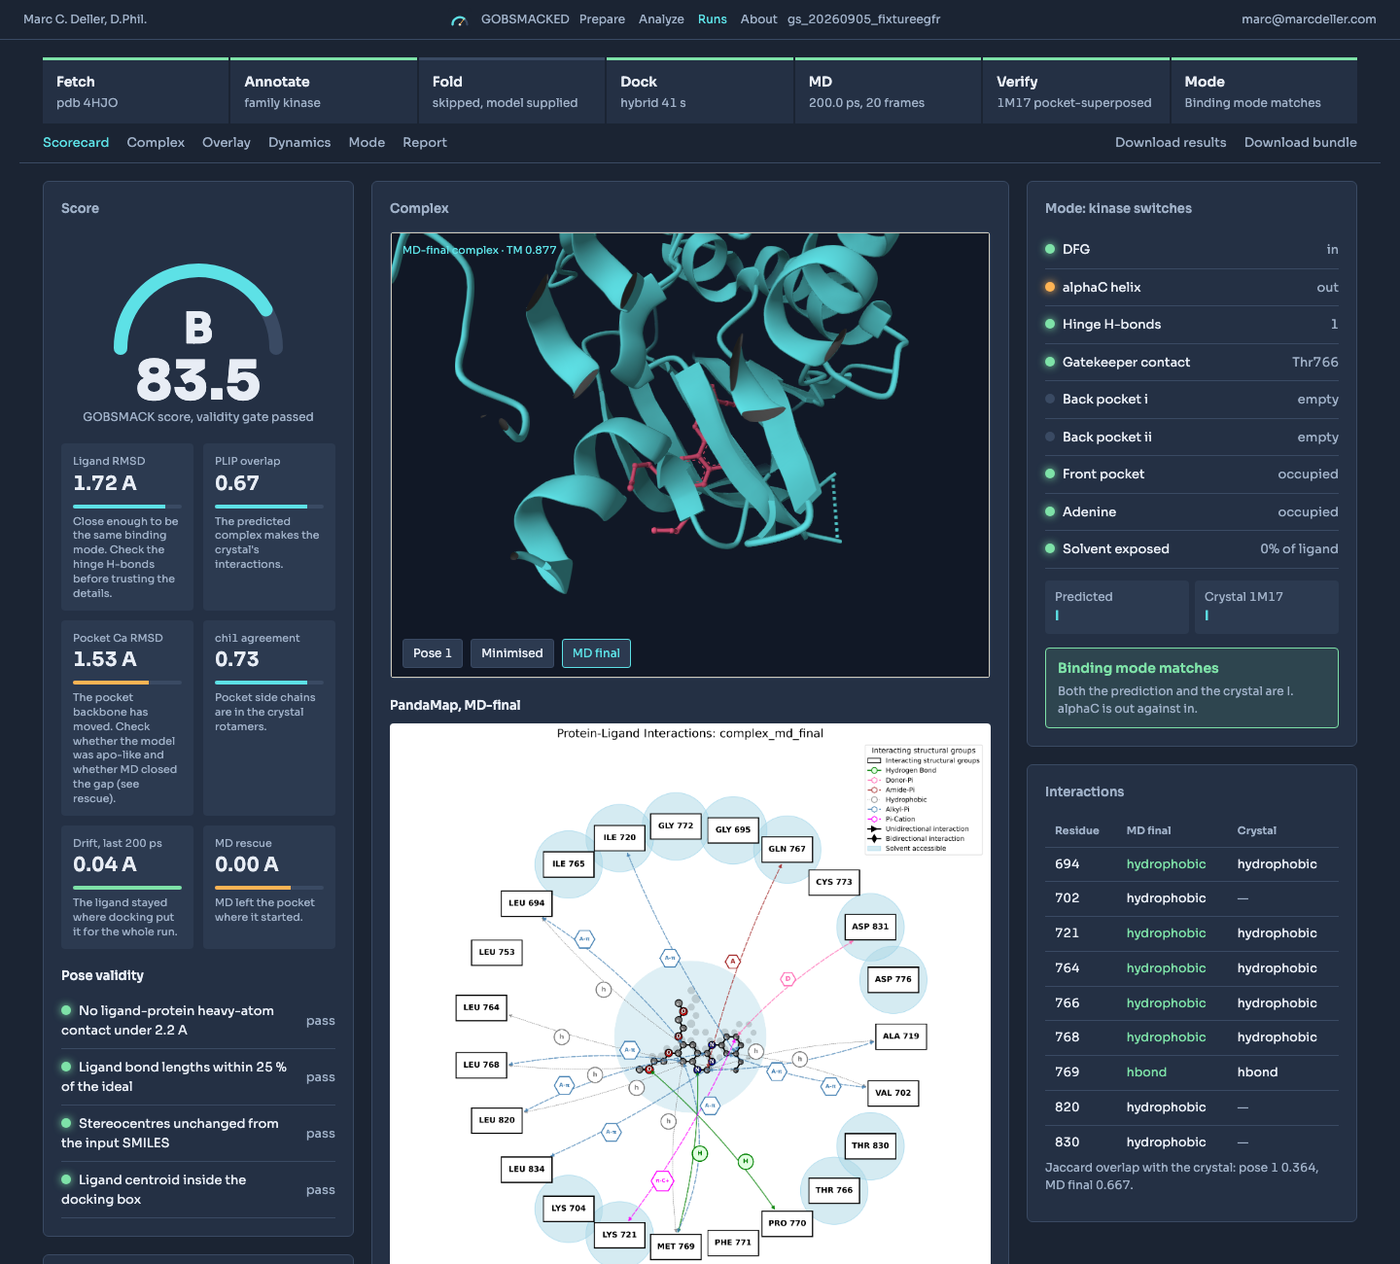
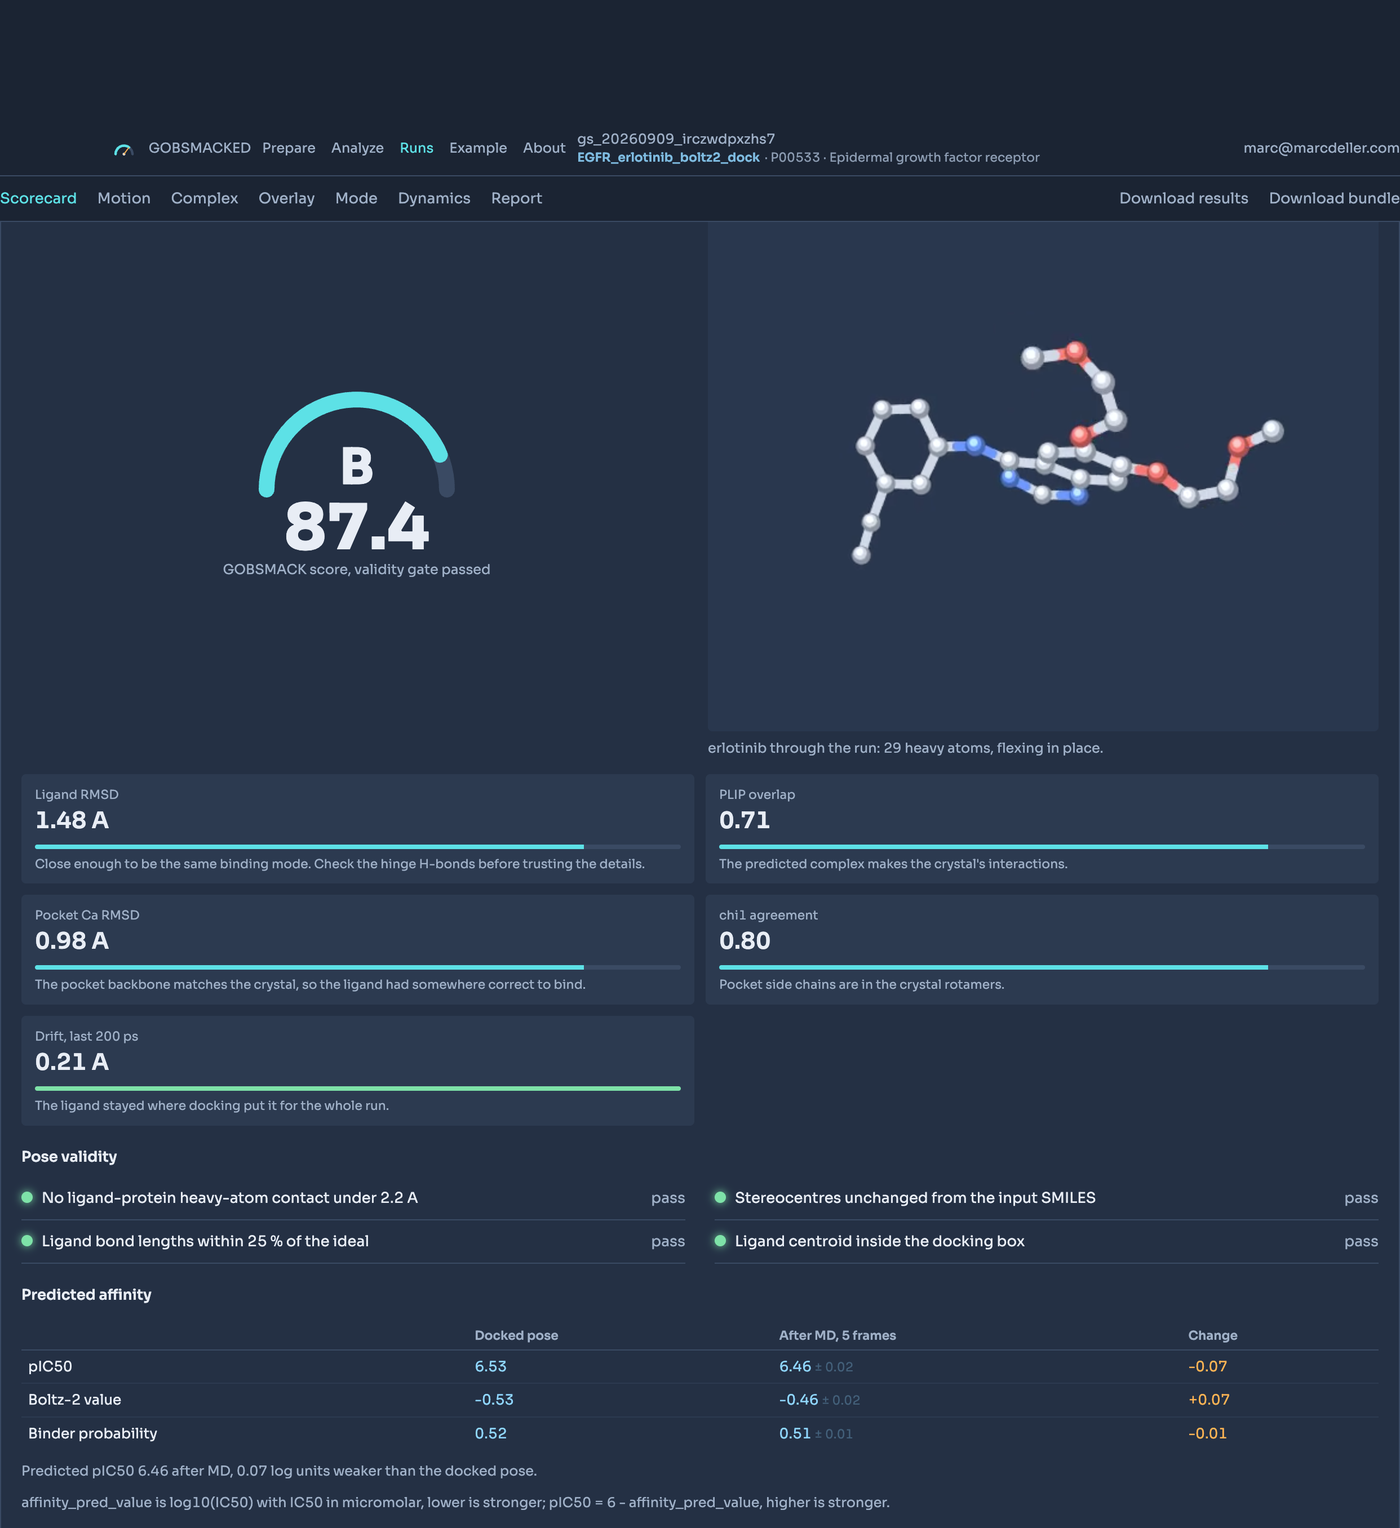
Refresh the screenshots and point the README at the current app
Every screenshot was captured before co-folding, the Vinardo ranker and the
Example tab existed, so the README was showing an app that no longer matches the
one described beside it.

Recaptured from the live site against the B 87.4 co-folded run: the scorecard
with its five gauges and the validity gate passing, the overlay, the Prepare tab
with its co-fold checkbox, the About schematic with seven run stages, and the new
Example tab. Real-time capture rather than --virtual-time-budget, which pauses
requestAnimationFrame and renders Mol* as an empty canvas that looks like a
broken viewer.

Checked for uniformity before committing, on the centre of each image as well as
the whole: a failed render is a plausible-looking rectangle of one colour at
exactly the right dimensions, and it would be believed. Downscaled from 2x to
1400 px wide.

real-run.png is deleted. Its section went when the worked example was replaced,
so it was an orphan of a run that predates the current pipeline.

Alt text rewritten to describe what each image now shows rather than what the
old one did.

Claude-Session: https://claude.ai/code/session_01L11zWULharkfydCNon2G9D

diff --git a/README.md b/README.md
@@ -14,7 +14,7 @@
 
 ---
 
-![The scorecard for EGFR plus erlotinib judged against crystal structure 1M17: a grade B dial at 83.5, six graded gauges each with a sentence explaining what to do about it, the relaxed complex in Mol*, PandaMap's 2D interaction diagram, and the kinase switch list reporting DFG-in, alphaC-out and a Type I binding mode matching the crystal](docs/screenshots/scorecard.png)
+![The GOBSMACK scorecard for the co-folded EGFR run: a grade B dial at 87.4, five graded gauges each with a sentence saying what the number means, and the relaxed complex beside it](docs/screenshots/scorecard.png)
 
 ## What this is asking
 
@@ -81,7 +81,7 @@ the scorecard says so rather than reporting a confident wrong answer.
 
 The heavy compute does not run on the server. ESMFold, the PandaDock GNN and OpenMM need a GPU and several gigabytes; the host is a shared CPU droplet with 3.8 GB. So the work is split in two, with an archive passing between them.
 
-![The pipeline: Prepare on the droplet fetches, annotates, picks the pocket and the reference, and emits run_bundle.tar.gz; Run on your GPU folds, preps, docks, runs MD and summarises into results.tar.gz; Analyze on the droplet superposes, runs the interaction analysis, grades, classifies the binding mode and draws the dynamics](docs/screenshots/pipeline.png)
+![The pipeline schematic from the About tab: Prepare on the server fetches, annotates, picks the pocket and the reference; the run bundle folds or co-folds, preps, docks, re-ranks, runs MD, scores affinity and summarises; Analyze superposes on the crystal and grades](docs/screenshots/pipeline.png)
 
 | Stage | Where | What happens |
 |---|---|---|
@@ -131,7 +131,7 @@ Four panels, each unlocking the next.
 | **3. Ligand and pocket** | SMILES, plus residues clicked in Mol* or on the sequence track | RDKit validates and draws the ligand; the docking box is the selection's extent plus 8 Å, floored at 18 Å per side |
 | **4. Reference** | (automatic, or a typed PDB ID) | RCSB entries mapped to the accession, ranked by Morgan Tanimoto against your ligand, with resolution and a 2D depiction |
 
-![The Prepare tab: the four input panels on the left and right, an empty Mol* scope in the centre waiting for a structure, and the seven-cell stage strip across the top showing what the bundle will run](docs/screenshots/prepare.png)
+![The Prepare tab: the protein panel with the co-fold checkbox, annotation, the ligand and pocket picker, and the reference panel, with the stage strip across the top](docs/screenshots/prepare.png)
 
 **Trim to the domain.** An AlphaFold model is of the whole precursor. EGFR's is 1,210 residues, of which the kinase domain is 253: solvating the other 957 costs an order of magnitude in MD time, adds two disordered tails that wander through the box, and tells you nothing about the pocket.
 
@@ -209,7 +209,7 @@ Every gauge carries one plain sentence saying what the number means and what to 
 
 Model in grey, MD-final in phosphor, the crystal in amber, all superposed on the pocket, with the ten most displaced side chains and their χ1 angles listed underneath.
 
-![The three-way overlay for the beta-2 adrenergic receptor: the relaxed complex in cyan and crystal structure 2RH1 in amber, superposed on 53 pocket Ca atoms at TM 0.999, with carazolol drawn in pink, above a table of the most displaced pocket side chains with their chi1 angles in the model and in the crystal](docs/screenshots/overlay.png)
+![The overlay panel: the relaxed complex in phosphor cyan and crystal structure 1M17 in amber, superposed on the pocket, with erlotinib drawn in both positions](docs/screenshots/overlay.png)
 
 ### 🧲 Affinity, before and after MD
 
@@ -301,6 +301,8 @@ software.yaml            the single source of truth for attribution
 ```
 
 ## 🔬 A worked example: EGFR and erlotinib, six ways
+
+![The Example tab: the six runs in one table with their grades and distances from the crystal, above four plain-language findings about what the campaign showed](docs/screenshots/example.png)
 
 One campaign run six times on an M1 Max, changing two things and holding everything else:
 where the receptor comes from, and which docking mode searches it. Same sequence (P00533,
